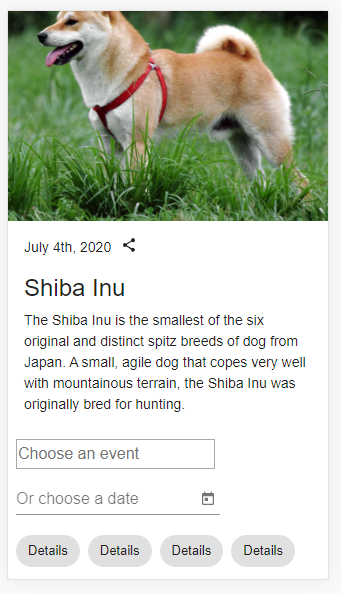
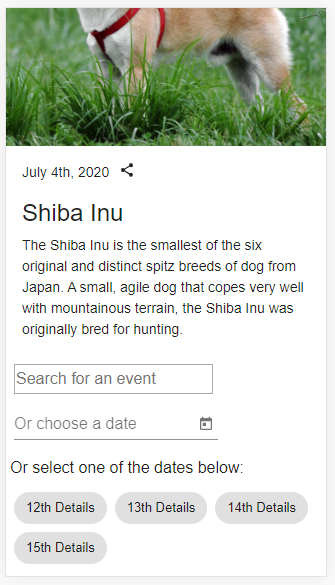
details buttons

diff --git a/src/app/dashboard/dashboard.component.html b/src/app/dashboard/dashboard.component.html
@@ -21,7 +21,9 @@
         <mat-datepicker #picker></mat-datepicker>
       </mat-form-field>
     <mat-chip-list>
-      <mat-chip *ngFor="let calendar of calendars" (click)="gotoDetail(calendar)">Details</mat-chip>
+      <label>Or select one of the dates below:</label>
+      <mat-chip *ngFor="let calendar of calendars" (click)="gotoDetail(calendar)">{{calendar.id}}th Details</mat-chip>
+      <!-- List more than one calendar with: *ngFor="let calendar of calendars" -->
     </mat-chip-list>
   </mat-card-actions>
 </mat-card>

diff --git a/src/app/calendar-search/calendar-search.component.html b/src/app/calendar-search/calendar-search.component.html
@@ -1,5 +1,5 @@
 <div id="search-component">
-  <input matinput #searchBox id="search-box" (keyup)="search(searchBox.value)" placeholder="Choose an event">
+  <input matinput #searchBox id="search-box" (keyup)="search(searchBox.value)" placeholder="Search for an event">
     <div *ngFor="let calendar of calendars | async"
          (click)="gotoDetail(calendar)" class="search-result" >
       {{calendar.name}}

diff --git a/src/app/calendar-detail/calendar-detail.component.html b/src/app/calendar-detail/calendar-detail.component.html
@@ -6,7 +6,7 @@
         {{calendar.id}}th
   </mat-card-content>
   <mat-card-actions>
-    <mat-form-field class="example-full-width">
+    <mat-form-field>
       <input matInput [matDatepicker]="picker" placeholder="Choose a date">
       <mat-datepicker-toggle matSuffix [for]="picker"></mat-datepicker-toggle>
       <mat-datepicker #picker></mat-datepicker>
